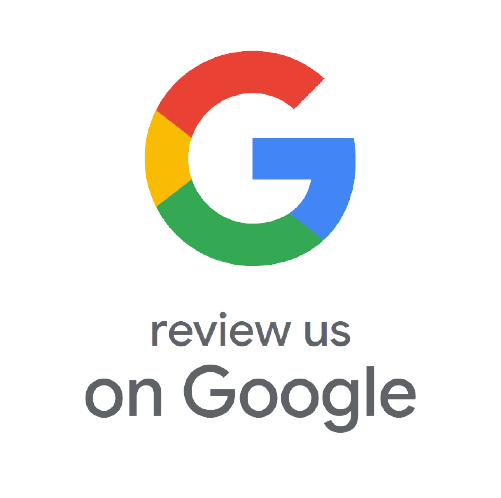
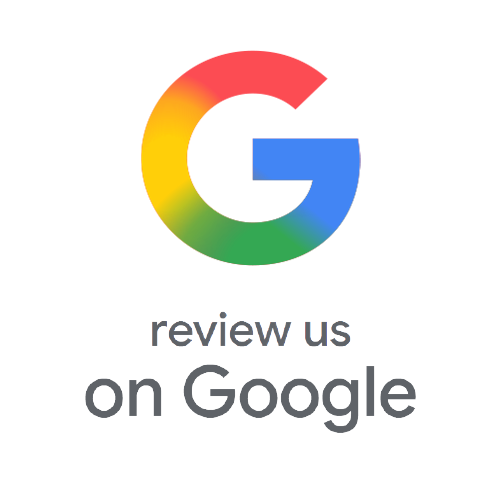
H

diff --git a/index.html b/index.html
@@ -20,7 +20,7 @@
     <link rel="shortcut icon" href="assets/img/favicon.png" type="image/x-icon">
 
     <!--=============== REMIX ICONS ===============-->
-    <link href="https://cdn.jsdelivr.net/npm/remixicon@3.5.0/fonts/remixicon.css" rel="stylesheet">
+    <link href="https://cdn.jsdelivr.net/npm/remixicon@4.6.0/fonts/remixicon.css" rel="stylesheet">
 
         <!-- (E) ANDROID/CHROME -->
 <meta name="mobile-web-app-capable" content="yes">
@@ -44,7 +44,7 @@
     <script src="spotlight.bundle.js"></script>
 
             <!--==================== UNICONS ====================-->
-            <link rel="stylesheet" href="https://unicons.iconscout.com/release/v3.0.6/css/line.css">
+            <link rel="stylesheet" href="https://unicons.iconscout.com/release/v4.2.0/css/line.css">
 
             <!--==================== CSS ====================-->
             <link rel="stylesheet" href="assets/priceassets/css/styles.css">
@@ -166,20 +166,23 @@ window.onload = function () {
                         <span class="home__social-follow">Follow Us</span>
 
                         <div class="home__social-links">
+                            <a href="https://maps.app.goo.gl/YEkxkdeVAYkqorfw6" target="_blank" class="home__social-link">
+                                <i class="ri-google-fill"></i>
+                            </a>
                             <a href="https://www.facebook.com/different.by.designing/" target="_blank" class="home__social-link">
                                 <i class="ri-facebook-fill"></i>
                             </a>
                             <a href="https://www.instagram.com/deepakdesigns10" target="_blank" class="home__social-link">
                                 <i class="ri-instagram-line"></i>
                             </a>
-                            <a href="https://x.com/deepak_designs" target="_blank" class="home__social-link">
-                                <i class="ri-twitter-x-line"></i>
-                            </a>
                             <a href="https://api.whatsapp.com/send/?phone=917019043569&text=Hi The 'D Team - I'm interested in Graphic design service! https://bit.ly/thedteam" target="_blank" class="home__social-link">
                                 <i class="ri-whatsapp-fill"></i>
                             </a>
                             <a href="https://www.threads.net/@thedteam.in" target="_blank" class="home__social-link">
                                 <i class="ri-threads-line"></i>
+                            </a>
+                            <a href="https://x.com/deepak_designs" target="_blank" class="home__social-link">
+                                <i class="ri-twitter-x-line"></i>
                             </a>
                         </div>
                     </div>
@@ -374,7 +377,9 @@ window.onload = function () {
 
     <div class="columnrow">
         <div class="column">
-          <img class="spotlight" data-play="true" data-autoslide="true" data-autohide="false" src="https://images.unsplash.com/photo-1647527529488-24efbd5a280a?w=1000&h=1000&fit=crop&crop=entropy" alt="" ondragstart="return false;" />
+          <!--img class="spotlight" data-play="true" data-autoslide="true" data-autohide="false" src="https://images.unsplash.com/photo-1647527529488-24efbd5a280a?w=1000&h=1000&fit=crop&crop=entropy" alt="" ondragstart="return false;" /-->
+
+          <img class="spotlight" data-play="true" data-autoslide="true" data-autohide="false" src="https://upload.wikimedia.org/wikipedia/commons/thumb/3/3c/Google_Favicon_2025.svg/800px-Google_Favicon_2025.svg.png" alt="" ondragstart="return false;" />
       
           <img class="spotlight" data-play="true" data-autoslide="true" data-autohide="false" src="https://images.unsplash.com/photo-1651221436727-28b9c922db97?w=2000&h=1000&fit=crop&crop=entropy" alt="" ondragstart="return false;" />
       
@@ -1160,20 +1165,23 @@ window.addEventListener('beforeinstallprompt', (e) => {
                         <a href="tel:+917019043569" class="footer__information" style="color: #009688;">+91 70190 43569</a>
                         
                         <div class="footer__social">
+                            <a href="https://maps.app.goo.gl/YEkxkdeVAYkqorfw6" target="_blank" class="footer__social-link">
+                                <i class="ri-google-fill"></i>
+                            </a>
                             <a href="https://www.facebook.com/different.by.designing/" target="_blank" class="footer__social-link">
                                 <i class="ri-facebook-fill"></i>
                             </a>
                             <a href="https://www.instagram.com/deepakdesigns10" target="_blank" class="footer__social-link">
                                 <i class="ri-instagram-line"></i>
                             </a>
-                            <a href="https://x.com/deepak_designs" target="_blank" class="footer__social-link">
-                                <i class="ri-twitter-x-line"></i>
-                            </a>
                             <a href="https://api.whatsapp.com/send/?phone=917019043569&text=Hi The 'D Team - I'm interested in Graphic design service! https://bit.ly/thedteam" target="_blank" class="footer__social-link">
                                 <i class="ri-whatsapp-fill"></i>
                             </a>
-			    <a href="https://www.threads.net/@thedteam.in" target="_blank" class="footer__social-link">
+			                 <a href="https://www.threads.net/@thedteam.in" target="_blank" class="footer__social-link">
                                 <i class="ri-threads-line"></i>
+                            </a>
+                            <a href="https://x.com/deepak_designs" target="_blank" class="footer__social-link">
+                                <i class="ri-twitter-x-line"></i>
                             </a>
                         </div>
                     </ul>
